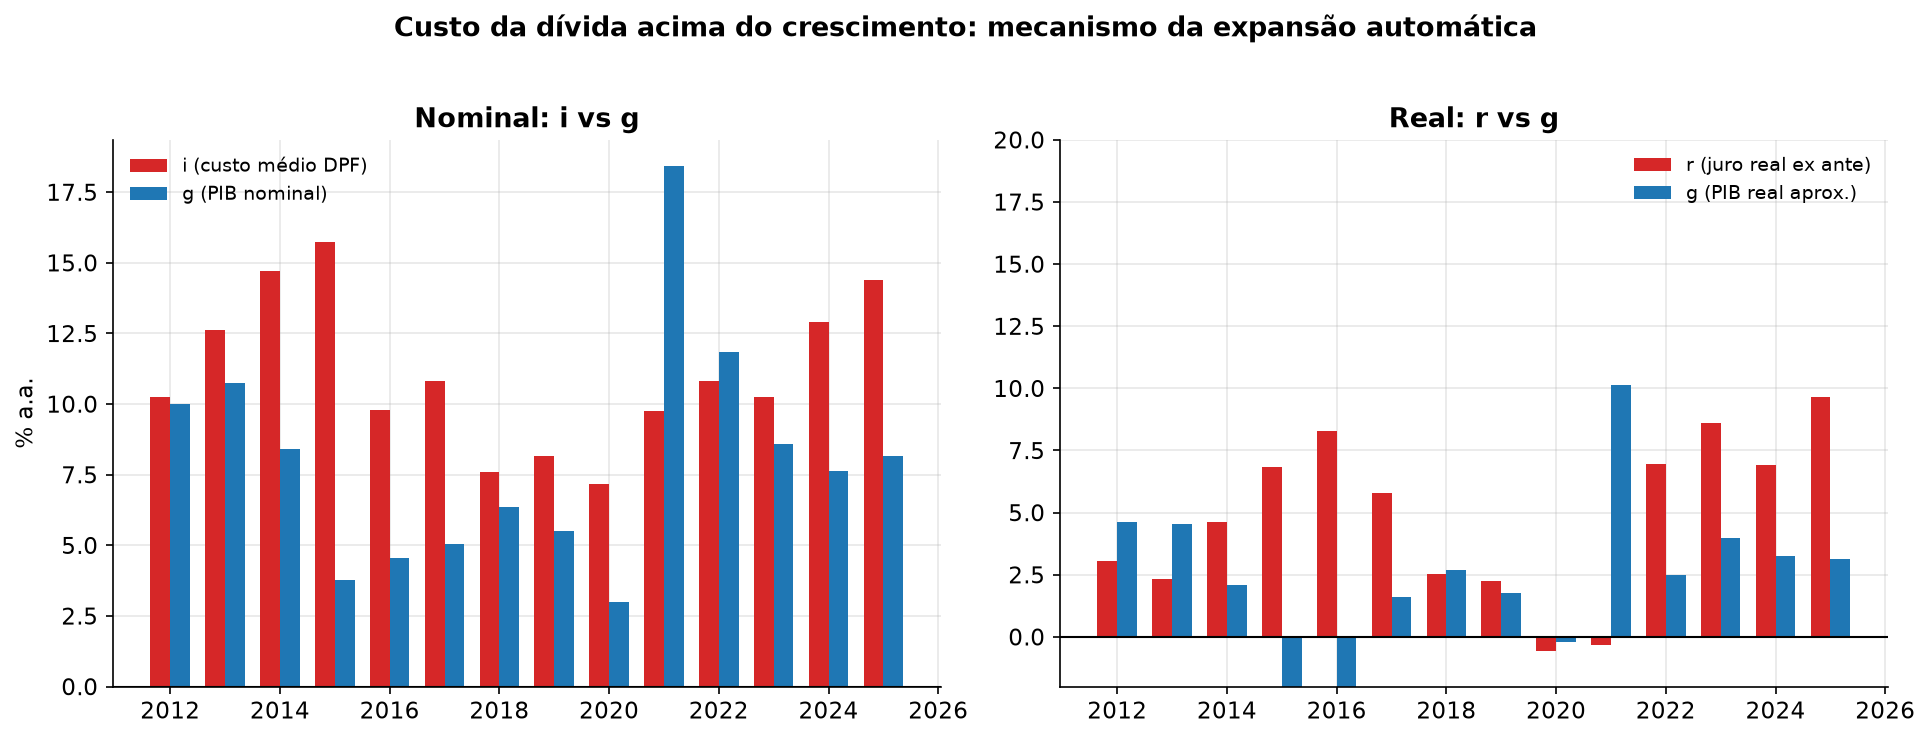
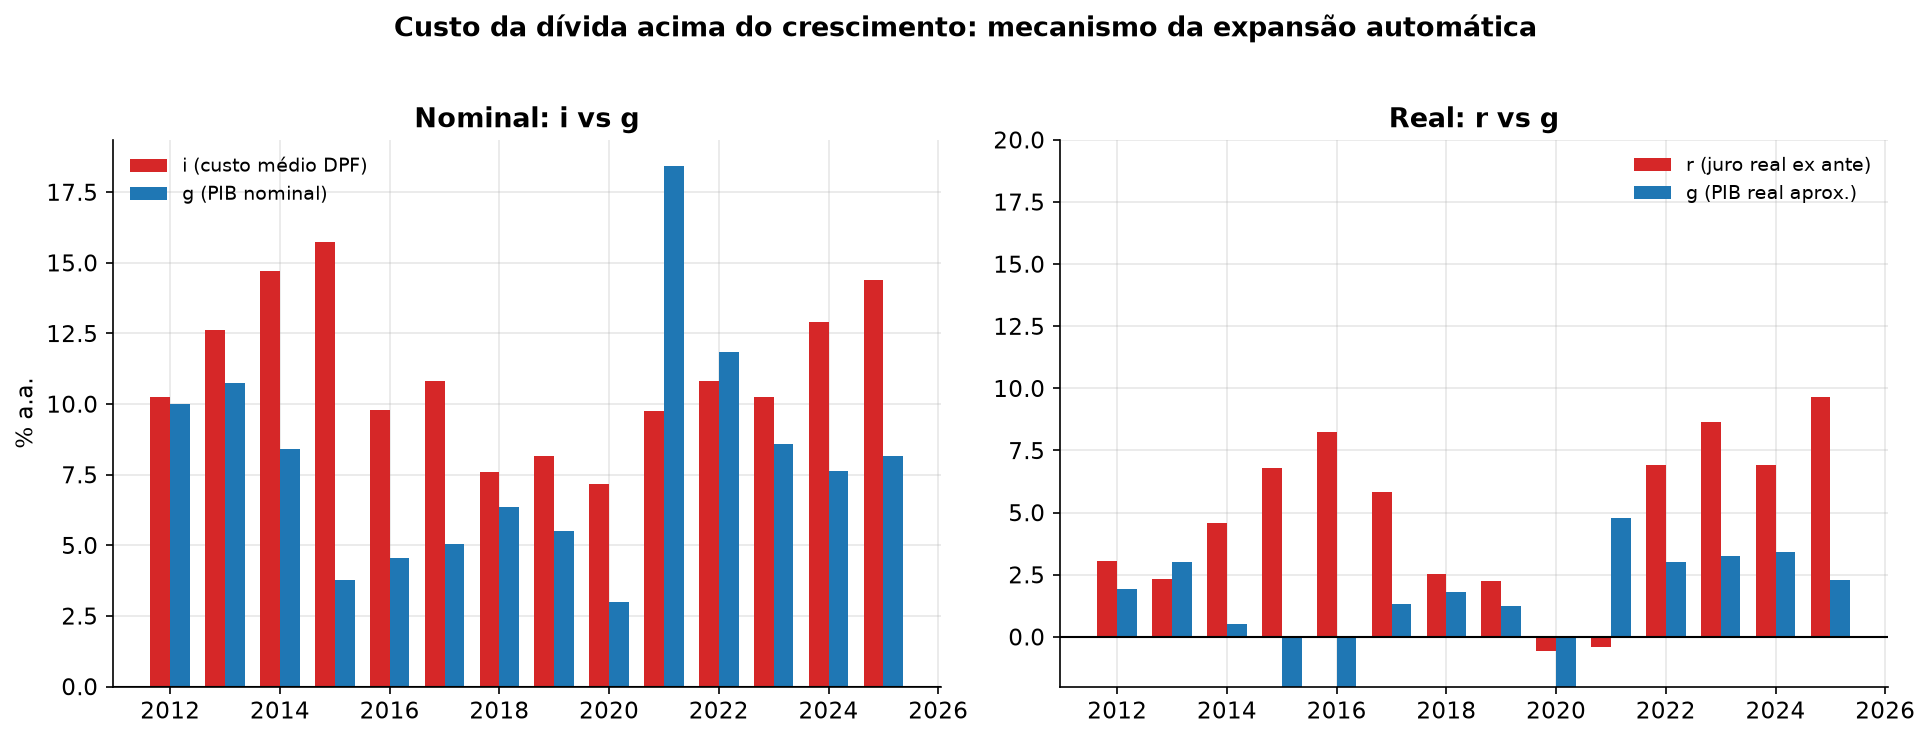
g real oficial do IBGE (SIDRA volume) no r>g do nb04 e do app — fim de 'nominal − IPCA' (erro de ~1 p.p., ate ~5 em anos de choque); conclusoes inalteradas

diff --git a/app/tabelas.py b/app/tabelas.py
@@ -12,6 +12,8 @@ if str(RAIZ) not in sys.path:
 import pandas as pd
 import plotly.graph_objects as go
 
+from src.processa import indicadores as ind
+
 from app.dados import ANO_CORTE
 from app.graficos import _layout
 
@@ -46,10 +48,13 @@ def fig_i_g(d) -> tuple[pd.DataFrame, go.Figure]:
     g_nom = v.pib_mi.pct_change() * 100
     m = d["macro"]
     m_anual = m[m.ipca_12m.notna()].groupby(m[m.ipca_12m.notna()].index.year).mean()
-    g_real = ((1 + g_nom / 100) / (1 + m_anual.ipca_12m / 100) - 1) * 100
+    # g real = PIB real do IBGE (SIDRA, volume) — não "nominal − IPCA",
+    # aproximação com erro de ~1 p.p. na média (até ~5 p.p. em anos de choque)
+    g_real = ind.crescimento_pib_real()
+    g_real = g_real[g_real.index < ANO_CORTE]  # ano incompleto fora (regra 4)
     tab = pd.DataFrame({
         "g (PIB nominal)": g_nom,
-        "g (PIB real aprox.)": g_real,
+        "g (PIB real, IBGE)": g_real,
     }).loc[2013:]
     i_nom = d["custo"].set_index("data").taxa_pct_aa.resample("YE").last()
     i_nom.index = i_nom.index.year
@@ -57,7 +62,7 @@ def fig_i_g(d) -> tuple[pd.DataFrame, go.Figure]:
     tab["i (custo médio DPF)"] = i_nom.loc[2013:2025]
     tab["r (juro real ex ante)"] = i_real.loc[2013:2025]
     tab["i − g (nominal)"] = tab["i (custo médio DPF)"] - tab["g (PIB nominal)"]
-    tab["r − g (real)"] = tab["r (juro real ex ante)"] - tab["g (PIB real aprox.)"]
+    tab["r − g (real)"] = tab["r (juro real ex ante)"] - tab["g (PIB real, IBGE)"]
     tab.index.name = "ano"
     tab_l = tab.reset_index()
     cores = ["#2ca02c" if x >= 0 else "#d62728" for x in tab_l["i − g (nominal)"]]

diff --git a/src/processa/indicadores.py b/src/processa/indicadores.py
@@ -259,6 +259,31 @@ def focus_anuais() -> pd.DataFrame:
     return d
 
 
+def crescimento_pib_real() -> pd.Series:
+    """Variação anual do PIB real (volume) — IBGE SIDRA, fbcf.parquet.
+
+    Crescimento do ano = média anual do índice de volume do PIB a preços de
+    mercado sobre a média do ano anterior (a variação "do ano" do IBGE).
+    É o g oficial da comparação r > g: deflacionar o PIB nominal pelo
+    IPCA 12m é aproximação com erro de ~1 p.p. na média, até ~5 p.p. em
+    anos de choque de preços (2021: 10,1 vs 4,8).
+    """
+    f = ler_parquet("fbcf")
+    _exigir_colunas(f, ["setor", "data", "indice"], "fbcf.parquet")
+    pib = f[f.setor == "PIB a preços de mercado"]
+    if pib.empty:
+        raise ValueError(
+            "crescimento_pib_real: setor 'PIB a preços de mercado' ausente em "
+            f"fbcf.parquet — setores: {sorted(f.setor.unique())}")
+    s = pib.set_index("data")["indice"]
+    if s.index.year.min() > ANO_INICIO:
+        raise ValueError(
+            f"crescimento_pib_real: cobertura recuou — começa em "
+            f"{s.index.min():%Y-%m} (esperado desde {ANO_INICIO})")
+    anual = s.groupby(s.index.year).mean()
+    return anual.pct_change() * 100
+
+
 # ------------------------------------------------------------------ custo médio
 
 
